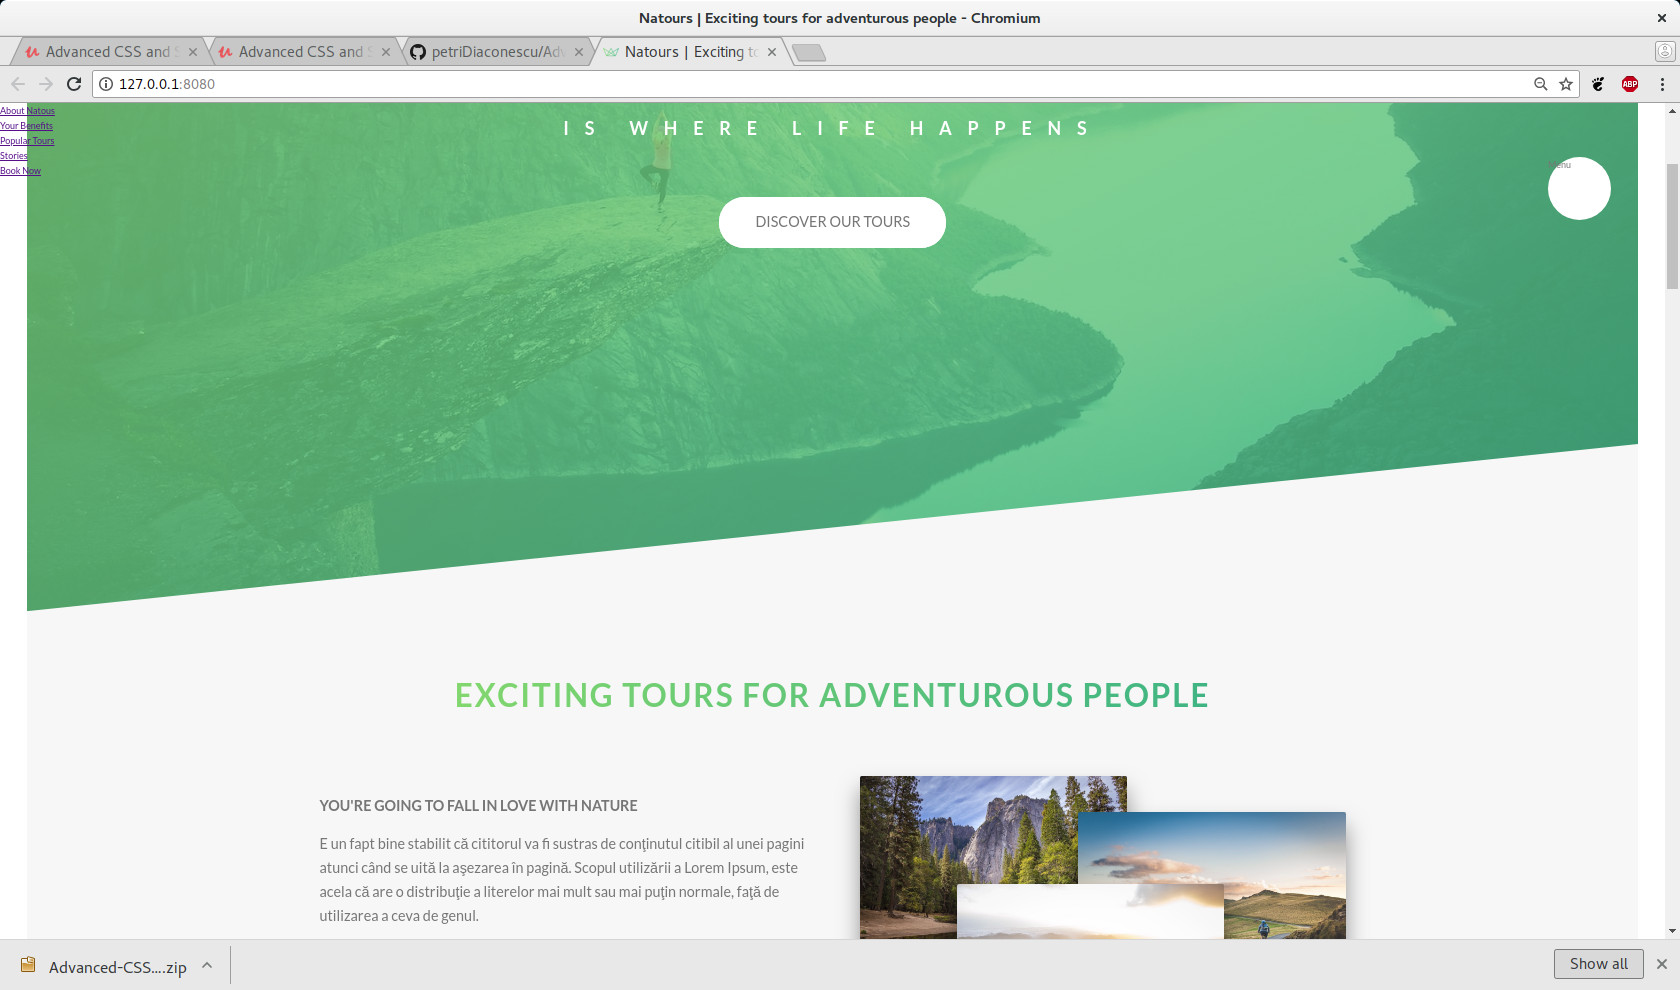
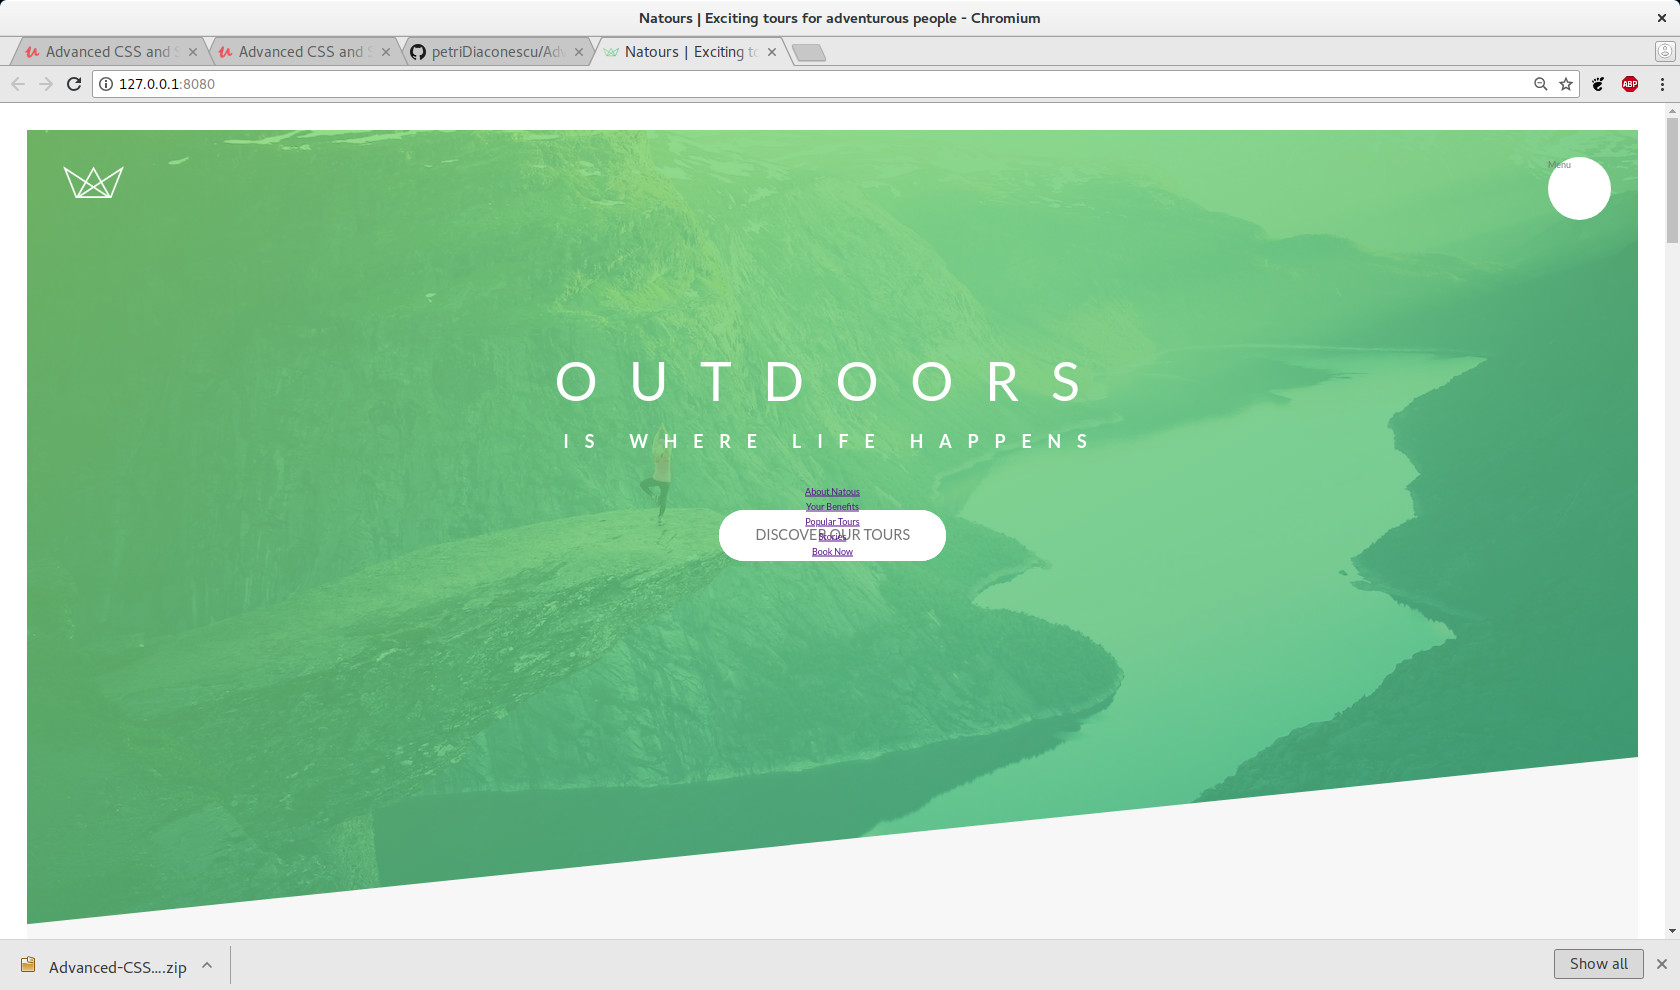
The navigation__list element will be centered in the center of the viewport as soon as the navigation is open

diff --git a/sass/layout/_navigation.scss b/sass/layout/_navigation.scss
@@ -36,7 +36,12 @@
   }
   
   &__list {
-    
+    position: absolute;
+    top: 50%;
+    left: 50%;
+    transform: translate(-50%, -50%);
+    list-style: none;
+    text-align: center;
   }
   
   &__item {
